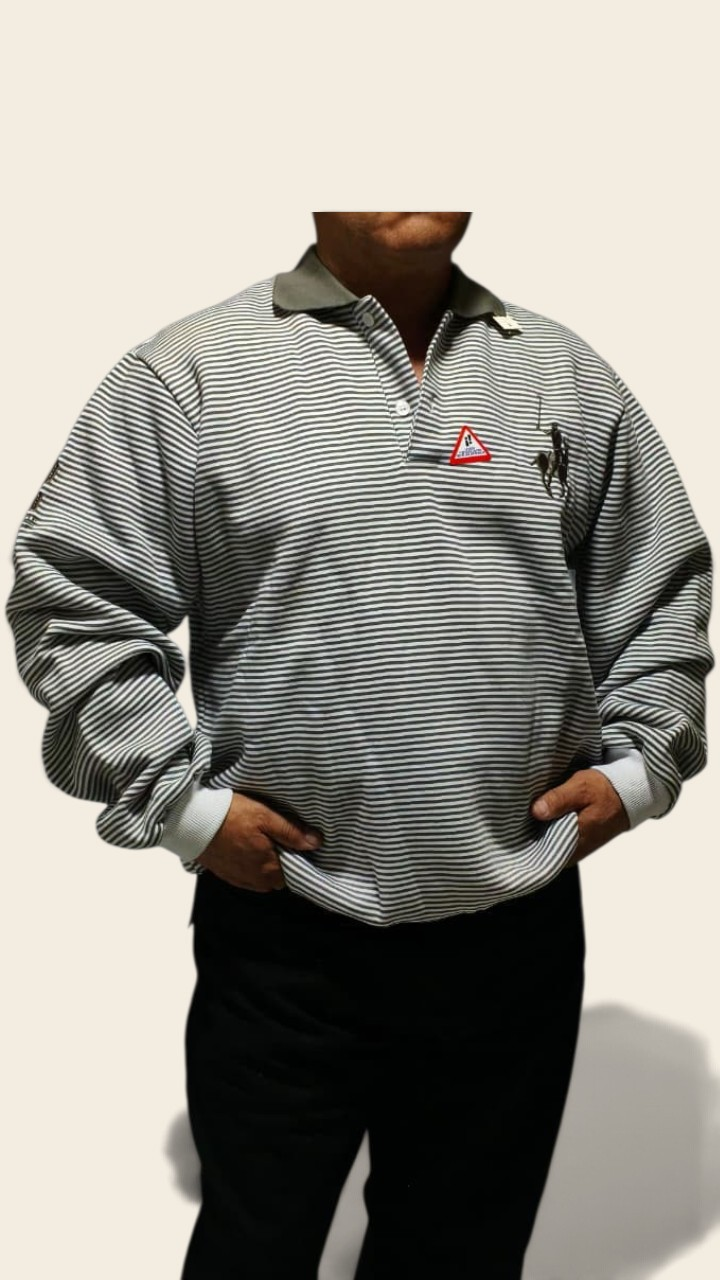
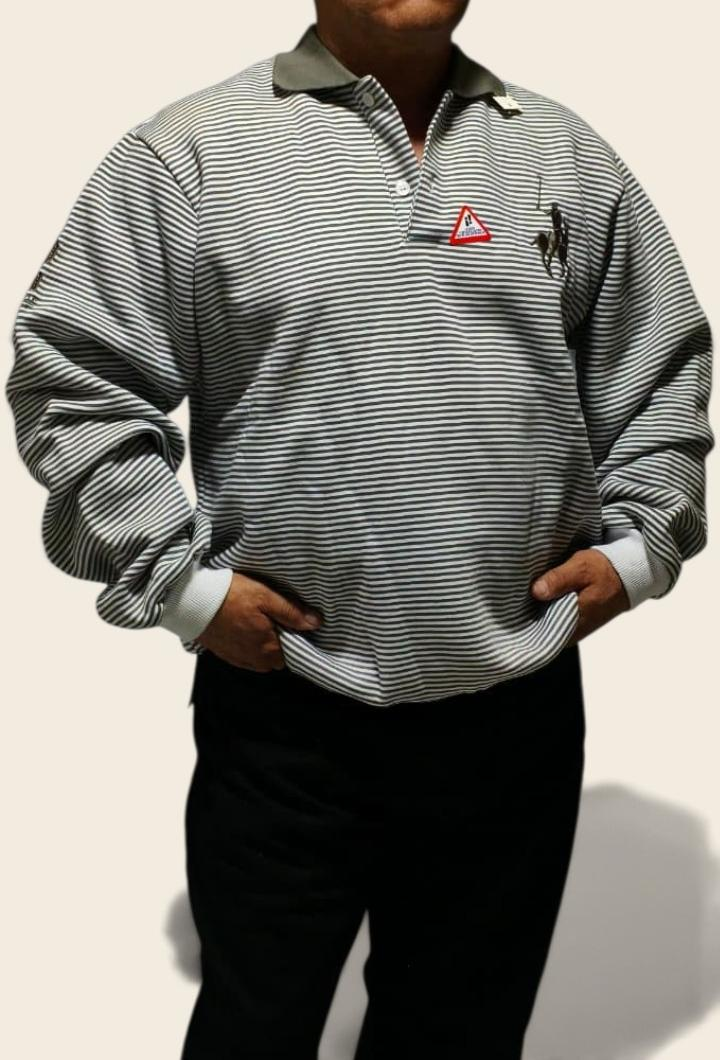
cambios color

diff --git a/css/style.css b/css/style.css
@@ -1,6 +1,6 @@
 /* ===== Maria Teresa Modas — tokens ===== */
 :root{
-  --ivory: #F9EFEF;
+  --ivory: #F9FAE8;
   --ivory-deep: #F3ECE1;
   --ink: #2B2420;
   --wine: #7A2E38;
